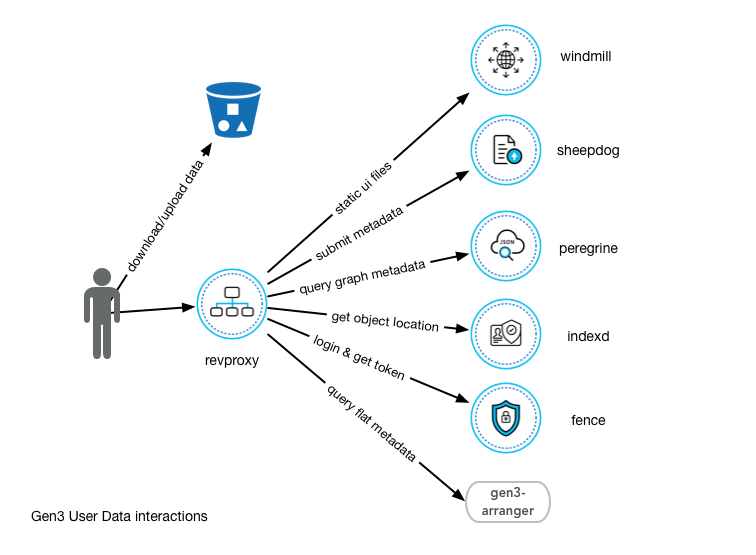
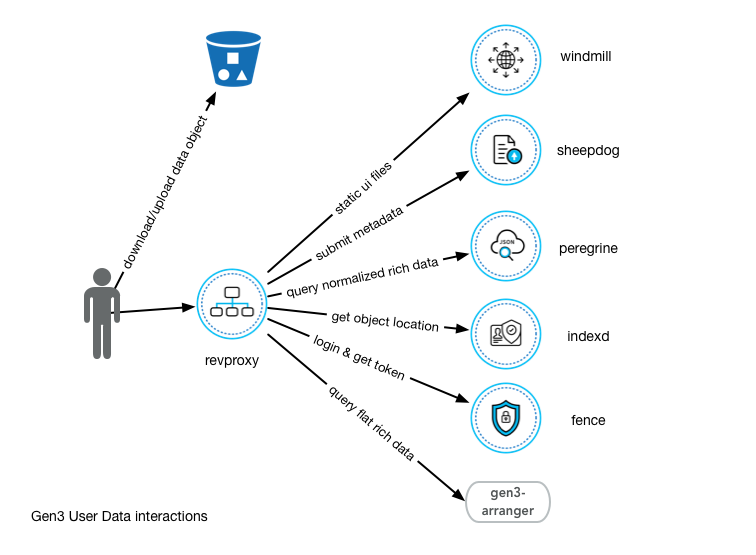
docs(technical): metadata -> rich-data XD

diff --git a/content/docs/technical/introduction.md b/content/docs/technical/introduction.md
@@ -5,6 +5,12 @@ To understand the initiatives of Gen3, go to https://gen3.org
 
 Gen3 software is a set of services that enables users to use the data and compute resources from various cloud providers easily. And on top of those resources, provide a user-friendly environment to organize, query the data and run computational analysis.
 
+## Terminology
+### Data Object
+Raw data that's not indexed into any database. They are petabyte scale and sit in cloud object storage.
+
+### Rich Data
+Data that are harmonized, indexd in various databases, discoverable and queryable.
 
 ## Data management
 
@@ -15,23 +21,23 @@ The following diagram describes all the user interactions in data management asp
 2. download/upload data. Gen3 doesn't have services sitting between user and cloud storage services so that user can fully leverage the cloud provider's power, but it provides tools and services to enable users to access protected data security with temporary credentials.
 
 3. windmill serves static html, javascript and image files to create a view for users to interact with Gen3 microservices.
-4. sheepdog microservice allows user to do metadata submission.
-5. peregrine microservice allows user to do GraphQL query on live metadata.
+4. sheepdog microservice allows user to do rich data submission.
+5. peregrine microservice allows user to do GraphQL query on live rich data.
 6. indexd microservice allows user to find physical location for data object.
-7. gen3-arranger exposes GraphQL query interface for a flattened/materialized view of metadata that's ETLed from graph metadata to Elasticsearch.
+7. gen3-arranger exposes GraphQL query interface for a flattened/materialized view of rich data that's ETLed from graph rich data to Elasticsearch.
 
 ### Data Submission System
-People generate a lot of data during experiments and studies. They would like to organize the data and annotate the data to describe how they are generated and all the context for the data. All the 'context' is preserved in our 'metadata' database. The metadata store is presented in a graph-like relational model to depict the normalized relationships of all the concepts. Take [bloodpac](https://www.bloodpac.org/data-group/) data model as an example, it describes how you start from having a particular study that's done on a bunch of `cases`( aka patients ), the doctors gathered some clinical informtion about each patient which is kept in various clinical nodes like `diagnosis`, `family history`, etc. The hositpical also gathered some samples from the patient and sent them to sequencing center which finally produced some sequencing files stored in `submitted unaligned reads`.
+People generate a lot of data during experiments and studies. They would like to organize the data and annotate the data to describe how they are generated and all the context for the data. All the 'context' is preserved in our 'rich data' database. The rich data store is presented in a graph-like relational model to depict the normalized relationships of all the concepts. Take [bloodpac](https://www.bloodpac.org/data-group/) data model as an example, it describes how you start from having a particular study that's done on a bunch of `cases`( aka patients ), the doctors gathered some clinical informtion about each patient which is kept in various clinical nodes like `diagnosis`, `family history`, etc. The hositpical also gathered some samples from the patient and sent them to sequencing center which finally produced some sequencing files stored in `submitted unaligned reads`.
 
-In order for a Gen3 Commons to preserve these metadata, we first need to come up with a consistent datamodel with standard terminologies to describe all these information. We decided to do the data modeling using jsonschema and store them as yaml files in [github](https://github.com/occ-data/bpadictionary) so it's easy for domain experts to make changes there and track all the data modeling activities. The schema is then translated to database ORM([psqlgraph](https://github.com/NCI-GDC/psqlgraph)) and used by Gen3 microservices to do metadata validation and database interactions.
+In order for a Gen3 Commons to preserve these rich data, we first need to come up with a consistent datamodel with standard terminologies to describe all these information. We decided to do the data modeling using jsonschema and store them as yaml files in [github](https://github.com/occ-data/bpadictionary) so it's easy for domain experts to make changes there and track all the data modeling activities. The schema is then translated to database ORM([psqlgraph](https://github.com/NCI-GDC/psqlgraph)) and used by Gen3 microservices to do data validation and database interactions.
 
 The currently supported database backend is postgres, which is not necessarily the optimal choice for complicated graph traversals. But we went with it because of its robustness as a traditional relational database. The data dictionary described in jsonschema is translated to very typical relational datamodel in postgres. Basically every node type is a table and every edge type is a table as the many-to-many proxy between two node tables. The non-conventional schema design is that, all the properties are stored as jsonb in postgres instead of separate columns. This was a compromise to support very frequent data modeling changes required by domain experts with a sacrifise of query performance because of lack of statistics on jsonb.
 
 Sheepdog uses the dictionary-driven ORM to do metadta validation and submission as described in following diagram:
-![metadata-submission](gen3-diagrams/metadata-submission.png).
+![rich-data-submission](gen3-diagrams/rich-data-submission.png).
 
-Peregrine exposes a query interface for the normalized metadata via GraphQL interface:
-![metadata-query](gen3-diagrams/metadata-query.png).
+Peregrine exposes a query interface for the normalized rich data via GraphQL interface:
+![rich-data-query](gen3-diagrams/rich-data-query.png).
 
 Separately, users use [cdis-data-client](https://github.com/uc-cdis/cdis-data-client) to request temporary urls to do raw data download/upload:
 ![data-download-upload](gen3-diagrams/data-download-upload.png).
